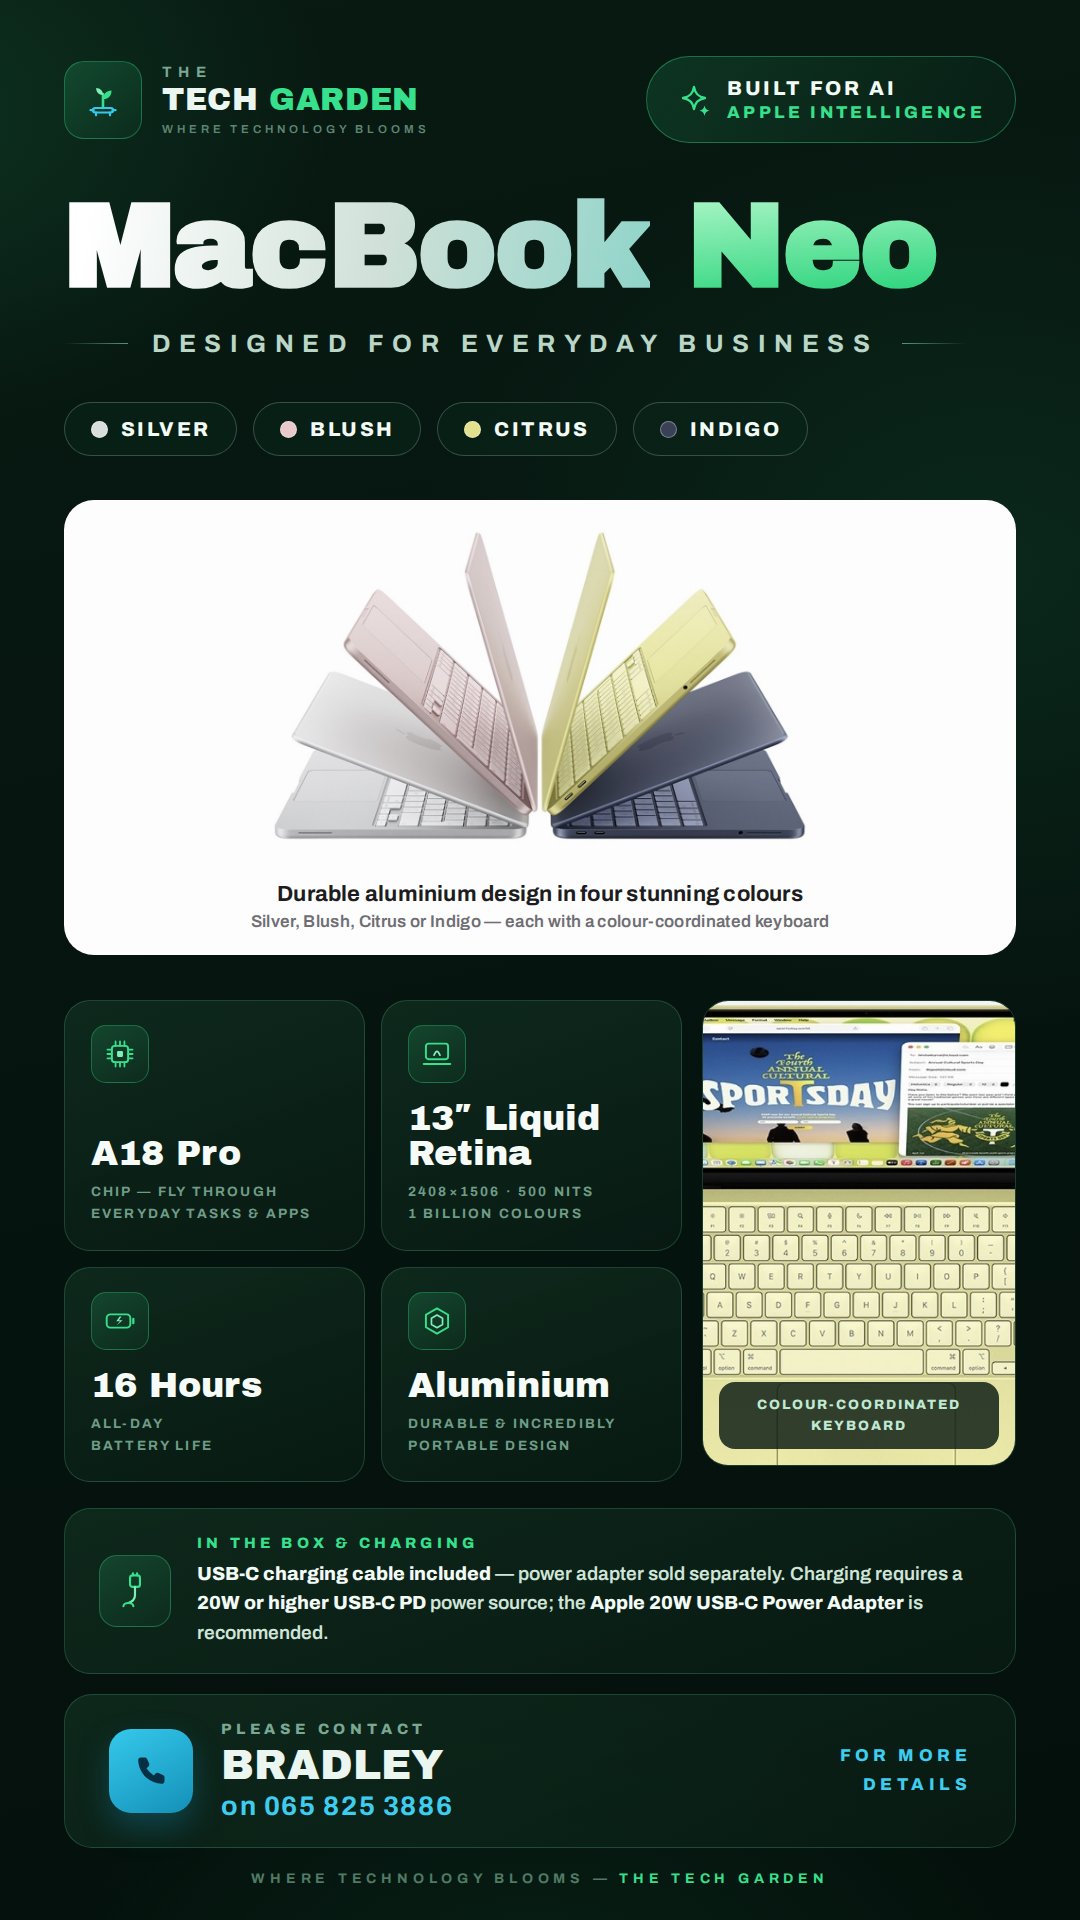
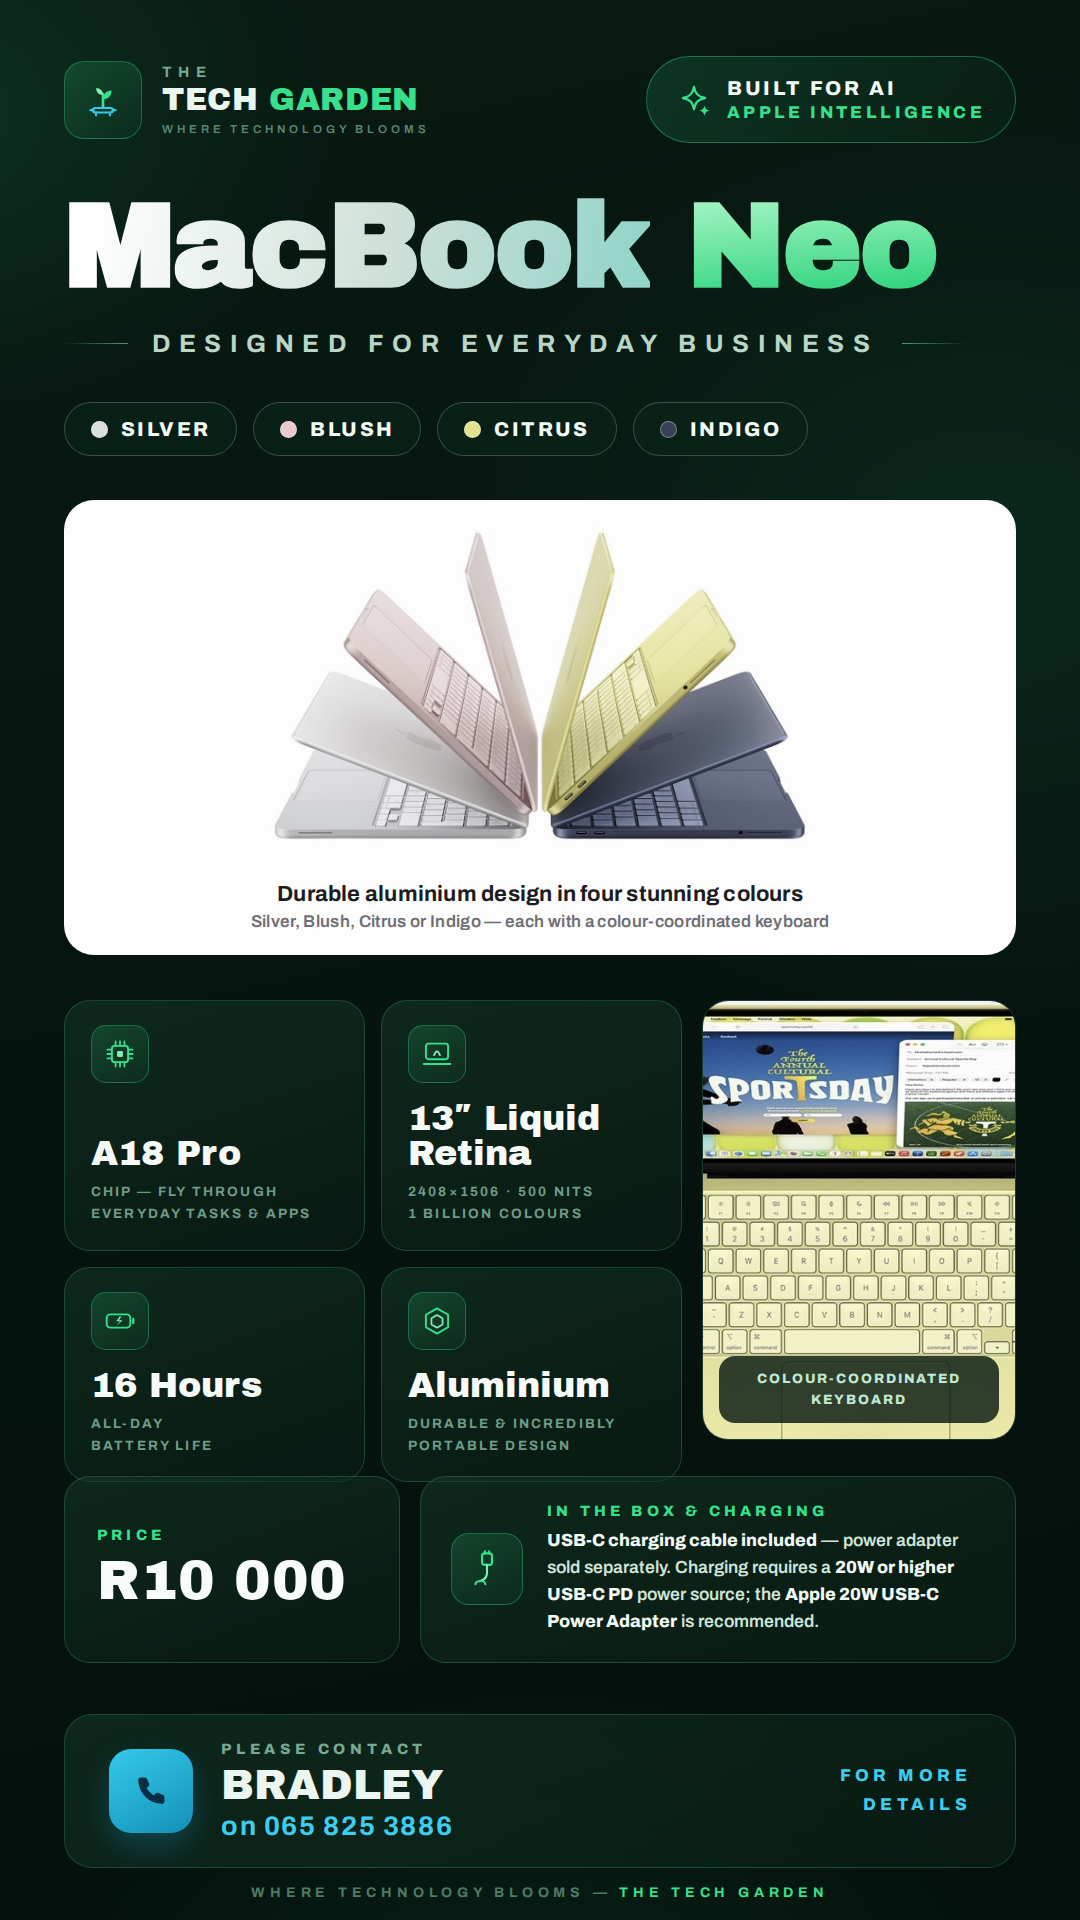
Add R10 000 price card to MacBook Neo flyer
Pair a price card with the in-the-box/charging card in one row and
tighten the bottom section spacing to fit.

Claude-Session: https://claude.ai/code/session_01JpQZhsXoJ8kSinvaSd1GMV

Changed region(s): [[0.0917, 0.5312, 0.9472, 1.0], [0.7639, 0.9062, 0.9167, 0.9688], [0.5806, 0.9688, 0.7639, 1.0]]

diff --git a/flyer/macbook-neo/index.html b/flyer/macbook-neo/index.html
@@ -170,7 +170,7 @@
     grid-template-columns: 1fr 1fr;
     grid-template-rows: 1fr 1fr;
     gap: 16px;
-    height: 466px;
+    height: 440px;
   }
   .cell {
     border-radius: 26px;
@@ -200,7 +200,7 @@
   }
   .side-photo {
     flex: 0 0 314px;
-    height: 466px;
+    height: 440px;
     border-radius: 26px;
     overflow: hidden;
     border: 1px solid rgba(110, 231, 168, 0.2);
@@ -223,15 +223,36 @@
     line-height: 1.6;
   }
 
-  /* ---------- details ---------- */
-  .details {
+  /* ---------- price + details row ---------- */
+  .bottom-row {
     position: absolute;
-    top: 1508px; left: 64px; right: 64px;
+    top: 1476px; left: 64px; right: 64px;
+    display: flex; gap: 20px;
+    align-items: stretch;
+  }
+  .price-card {
+    flex: 0 0 336px;
     border-radius: 26px;
     border: 1px solid rgba(110, 231, 168, 0.2);
     background: linear-gradient(160deg, rgba(22, 58, 40, 0.55), rgba(10, 30, 21, 0.65));
-    padding: 26px 34px;
-    display: flex; align-items: center; gap: 26px;
+    padding: 28px 32px;
+    display: flex; flex-direction: column; justify-content: center;
+  }
+  .price-card .amount {
+    font-family: 'Archivo Black';
+    font-size: 55px; line-height: 1.05;
+    white-space: nowrap;
+    margin-top: 10px;
+    color: #f8fcfa;
+    letter-spacing: 0.01em;
+  }
+  .details {
+    flex: 1 1 auto;
+    border-radius: 26px;
+    border: 1px solid rgba(110, 231, 168, 0.2);
+    background: linear-gradient(160deg, rgba(22, 58, 40, 0.55), rgba(10, 30, 21, 0.65));
+    padding: 26px 30px;
+    display: flex; align-items: center; gap: 24px;
   }
   .details .tile {
     flex: 0 0 auto;
@@ -247,7 +268,7 @@
   }
   .details .text {
     margin-top: 8px;
-    font-size: 19px; font-weight: 600; line-height: 1.55;
+    font-size: 17.5px; font-weight: 600; line-height: 1.55;
     color: #cfe5d8;
   }
   .details .text b { color: #f2faf5; font-weight: 800; }
@@ -255,7 +276,7 @@
   /* ---------- contact ---------- */
   .contact {
     position: absolute;
-    top: 1694px; left: 64px; right: 64px;
+    top: 1714px; left: 64px; right: 64px;
     border-radius: 28px;
     border: 1px solid rgba(110, 231, 168, 0.2);
     background: linear-gradient(160deg, rgba(22, 58, 40, 0.55), rgba(10, 30, 21, 0.65));
@@ -291,7 +312,7 @@
   /* ---------- footer tagline ---------- */
   .foot {
     position: absolute;
-    bottom: 34px; left: 64px; right: 64px;
+    bottom: 20px; left: 64px; right: 64px;
     text-align: center;
     font-size: 14px; font-weight: 700; letter-spacing: 0.34em;
     color: #4f7a64;
@@ -411,6 +432,11 @@
     </div>
   </div>
 
+  <div class="bottom-row">
+  <div class="price-card">
+    <div class="kicker">PRICE</div>
+    <div class="amount">R10 000</div>
+  </div>
   <div class="details">
     <div class="tile">
       <svg width="38" height="38" viewBox="0 0 46 46" fill="none">
@@ -427,6 +453,7 @@
         <b>20W or higher USB-C PD</b> power source; the <b>Apple 20W USB-C Power Adapter</b> is recommended.
       </div>
     </div>
+  </div>
   </div>
 
   <div class="contact">
